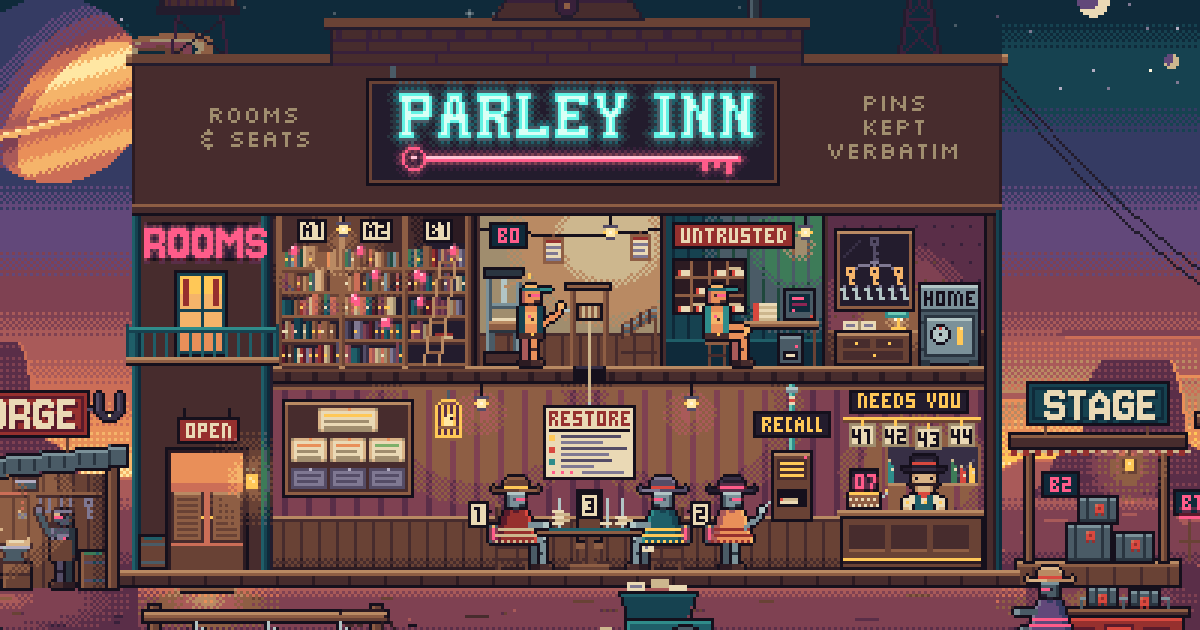
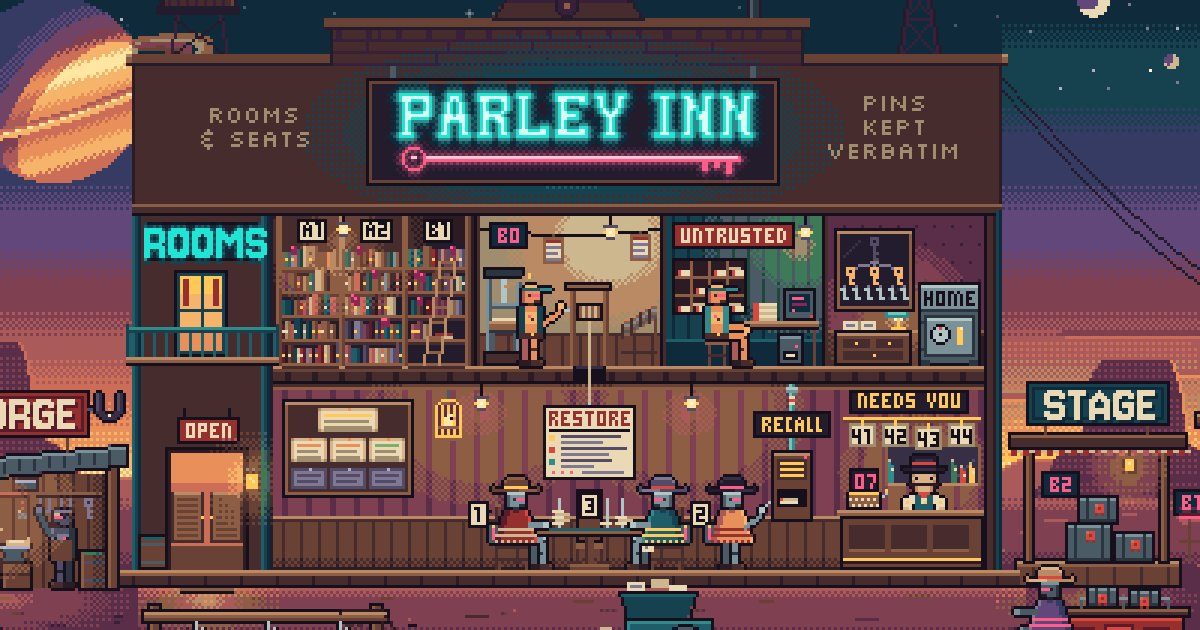
docs/design: the cyan sign glows as hard as the pink one did
The flip left the sign quieter than the small pinks around it: cyan
light could only fall on its own board, its glow climbed grey steps,
and pink sparkled from the shelves, the saloon floor and ROOMS.

- Cyan light now climbs the teal ramp, chosen step by step, so it can
  fall on the brown boards without warming them: the sign lights the
  wall around its board and blooms harder on it.
- Neon cyan is deeper, #1FE5D5, so the tubes read as colour, not white.
- ROOMS is the house's sign too, so it shines cyan.
- The small pinks calm down: bookmarks are deep rose ribbons with a lit
  tip, and the shelves and the saloon floor lose their pink halo.

Claude-Session: https://claude.ai/code/session_018PvLGbyFEuyGwhRRPAQAn3

diff --git a/docs/design/index.html b/docs/design/index.html
@@ -51,10 +51,10 @@
 <p class="tag">Pins kept verbatim.</p>
 </section>
 <section class="k-col" aria-labelledby="col-h"><h2 id="col-h">Colours</h2>
-<ul class="named"><li class="sw"><span class="sw-c c-t0"></span><span class="sw-n">Night</span><span>#0B1A29</span></li><li class="sw"><span class="sw-c c-p2"></span><span class="sw-n">Bone</span><span>#EAD9B5</span></li><li class="sw"><span class="sw-c c-d4"></span><span class="sw-n">Dusk coral</span><span>#CC6E57</span></li><li class="sw"><span class="sw-c c-d1"></span><span class="sw-n">Mesa plum</span><span>#5A2E48</span></li><li class="sw"><span class="sw-c c-t4"></span><span class="sw-n">Teal</span><span>#2F8C8A</span></li><li class="sw"><span class="sw-c c-am"></span><span class="sw-n">Amber</span><span>#FFC857</span></li><li class="sw"><span class="sw-c c-cy"></span><span class="sw-n">Neon cyan</span><span>#63F3E4</span></li><li class="sw"><span class="sw-c c-pk"></span><span class="sw-n">Neon pink</span><span>#FF5C8A</span></li></ul>
-<div class="ramps" role="img" aria-label="All 48 colours of the picture, in 7 ramps"><div class="ramp"><i class="c-ink" title="ink #15101C"></i><i class="c-n1" title="n1 #231C2D"></i><i class="c-n2" title="n2 #372F45"></i><i class="c-n3" title="n3 #544C66"></i><i class="c-n4" title="n4 #7F7892"></i><i class="c-n5" title="n5 #B3ADC2"></i></div><div class="ramp"><i class="c-t0" title="t0 #0B1A29"></i><i class="c-t1" title="t1 #0F2A3A"></i><i class="c-t2" title="t2 #164250"></i><i class="c-t3" title="t3 #1F5E68"></i><i class="c-t4" title="t4 #2F8C8A"></i><i class="c-t5" title="t5 #6CC9B4"></i><i class="c-cy" title="cy #63F3E4"></i><i class="c-cyw" title="cyw #D9FFF5"></i></div><div class="ramp"><i class="c-v1" title="v1 #353B63"></i><i class="c-v2" title="v2 #62487A"></i><i class="c-d0" title="d0 #38203A"></i><i class="c-d1" title="d1 #5A2E48"></i><i class="c-d2" title="d2 #7F4152"></i><i class="c-d3" title="d3 #A95A59"></i><i class="c-d4" title="d4 #CC6E57"></i><i class="c-d5" title="d5 #E98F59"></i><i class="c-d6" title="d6 #F5B46A"></i><i class="c-am" title="am #FFC857"></i><i class="c-d8" title="d8 #FFE7A3"></i><i class="c-wh" title="wh #FFF6DC"></i></div><div class="ramp"><i class="c-w0" title="w0 #2C1B22"></i><i class="c-w1" title="w1 #472C2D"></i><i class="c-w2" title="w2 #694235"></i><i class="c-w3" title="w3 #8E5E44"></i><i class="c-w4" title="w4 #B98A63"></i><i class="c-w5" title="w5 #D9B387"></i><i class="c-p0" title="p0 #A08D6E"></i><i class="c-p1" title="p1 #CDB78E"></i><i class="c-p2" title="p2 #EAD9B5"></i></div><div class="ramp"><i class="c-m0" title="m0 #2A3540"></i><i class="c-m1" title="m1 #4A5B66"></i><i class="c-m2" title="m2 #7B9199"></i><i class="c-m3" title="m3 #B2C5C5"></i></div><div class="ramp"><i class="c-r0" title="r0 #5A1B2B"></i><i class="c-r1" title="r1 #96302E"></i><i class="c-r2" title="r2 #D8483E"></i><i class="c-pk0" title="pk0 #8C2654"></i><i class="c-pk" title="pk #FF5C8A"></i><i class="c-pkw" title="pkw #FFC4D6"></i></div><div class="ramp"><i class="c-g0" title="g0 #1F483C"></i><i class="c-g1" title="g1 #3D7B58"></i><i class="c-g2" title="g2 #7DB06A"></i></div></div>
+<ul class="named"><li class="sw"><span class="sw-c c-t0"></span><span class="sw-n">Night</span><span>#0B1A29</span></li><li class="sw"><span class="sw-c c-p2"></span><span class="sw-n">Bone</span><span>#EAD9B5</span></li><li class="sw"><span class="sw-c c-d4"></span><span class="sw-n">Dusk coral</span><span>#CC6E57</span></li><li class="sw"><span class="sw-c c-d1"></span><span class="sw-n">Mesa plum</span><span>#5A2E48</span></li><li class="sw"><span class="sw-c c-t4"></span><span class="sw-n">Teal</span><span>#2F8C8A</span></li><li class="sw"><span class="sw-c c-am"></span><span class="sw-n">Amber</span><span>#FFC857</span></li><li class="sw"><span class="sw-c c-cy"></span><span class="sw-n">Neon cyan</span><span>#1FE5D5</span></li><li class="sw"><span class="sw-c c-pk"></span><span class="sw-n">Neon pink</span><span>#FF5C8A</span></li></ul>
+<div class="ramps" role="img" aria-label="All 48 colours of the picture, in 7 ramps"><div class="ramp"><i class="c-ink" title="ink #15101C"></i><i class="c-n1" title="n1 #231C2D"></i><i class="c-n2" title="n2 #372F45"></i><i class="c-n3" title="n3 #544C66"></i><i class="c-n4" title="n4 #7F7892"></i><i class="c-n5" title="n5 #B3ADC2"></i></div><div class="ramp"><i class="c-t0" title="t0 #0B1A29"></i><i class="c-t1" title="t1 #0F2A3A"></i><i class="c-t2" title="t2 #164250"></i><i class="c-t3" title="t3 #1F5E68"></i><i class="c-t4" title="t4 #2F8C8A"></i><i class="c-t5" title="t5 #6CC9B4"></i><i class="c-cy" title="cy #1FE5D5"></i><i class="c-cyw" title="cyw #D9FFF5"></i></div><div class="ramp"><i class="c-v1" title="v1 #353B63"></i><i class="c-v2" title="v2 #62487A"></i><i class="c-d0" title="d0 #38203A"></i><i class="c-d1" title="d1 #5A2E48"></i><i class="c-d2" title="d2 #7F4152"></i><i class="c-d3" title="d3 #A95A59"></i><i class="c-d4" title="d4 #CC6E57"></i><i class="c-d5" title="d5 #E98F59"></i><i class="c-d6" title="d6 #F5B46A"></i><i class="c-am" title="am #FFC857"></i><i class="c-d8" title="d8 #FFE7A3"></i><i class="c-wh" title="wh #FFF6DC"></i></div><div class="ramp"><i class="c-w0" title="w0 #2C1B22"></i><i class="c-w1" title="w1 #472C2D"></i><i class="c-w2" title="w2 #694235"></i><i class="c-w3" title="w3 #8E5E44"></i><i class="c-w4" title="w4 #B98A63"></i><i class="c-w5" title="w5 #D9B387"></i><i class="c-p0" title="p0 #A08D6E"></i><i class="c-p1" title="p1 #CDB78E"></i><i class="c-p2" title="p2 #EAD9B5"></i></div><div class="ramp"><i class="c-m0" title="m0 #2A3540"></i><i class="c-m1" title="m1 #4A5B66"></i><i class="c-m2" title="m2 #7B9199"></i><i class="c-m3" title="m3 #B2C5C5"></i></div><div class="ramp"><i class="c-r0" title="r0 #5A1B2B"></i><i class="c-r1" title="r1 #96302E"></i><i class="c-r2" title="r2 #D8483E"></i><i class="c-pk0" title="pk0 #8C2654"></i><i class="c-pk" title="pk #FF5C8A"></i><i class="c-pkw" title="pkw #FFC4D6"></i></div><div class="ramp"><i class="c-g0" title="g0 #1F483C"></i><i class="c-g1" title="g1 #3D7B58"></i><i class="c-g2" title="g2 #7DB06A"></i></div></div>
 <p class="cap2">All 48, in 7 ramps, and nothing else</p>
-<ul class="uses"><li><i class="c-cy"></i><p>Neon cyan is the house’s own light: the name on the sign and the beams of the pen.</p></li><li><i class="c-pk"></i><p>Neon pink is the working light: the key under the name, power cells, the ledgers’ bookmarks and boundary plates.</p></li><li><i class="c-am"></i><p>Amber is lamplight and the proprietor’s business: the Needs you sign and the rail its tickets hang on.</p></li><li><i class="c-r2"></i><p>Red is for marks that must not be missed: UNTRUSTED, QUARANTINE, the seals and the band on every envelope.</p></li></ul>
+<ul class="uses"><li><i class="c-cy"></i><p>Neon cyan is the house’s own light: the name on the sign, ROOMS over the balcony and the beams of the pen.</p></li><li><i class="c-pk"></i><p>Neon pink is the working light: the key under the name, power cells, the ledgers’ bookmarks and boundary plates.</p></li><li><i class="c-am"></i><p>Amber is lamplight and the proprietor’s business: the Needs you sign and the rail its tickets hang on.</p></li><li><i class="c-r2"></i><p>Red is for marks that must not be missed: UNTRUSTED, QUARANTINE, the seals and the band on every envelope.</p></li></ul>
 <p>The page is drawn in the same colours: night for the ground, bone for text, steel for quiet text, and the sign’s cyan, pink and amber for accents.</p>
 </section>
 <section class="k-cast" aria-labelledby="cast-h"><h2 id="cast-h">The cast</h2>

diff --git a/docs/design/art/scene.js b/docs/design/art/scene.js
@@ -3,7 +3,7 @@
 const { Fb, png, rng, IDX, RGB, PAL, ci, B2 } = require('./pix.js');
 const W = 480, H = 330, HZ = 206, GY = 236;
 
-const { halo, neonMask, boards, vboards, plate, lamp, FRAMES } = require('./kit.js');
+const { halo, neonMask, boards, vboards, plate, lamp, ramped, FRAMES } = require('./kit.js');
 const INTERIOR = require('./interior.js');
 const YARD = require('./yard.js');
 
@@ -91,6 +91,8 @@ const LET = {
   N: ['####...####', '####...####', '.####..###.', '.####..###.', '.#####.###.', '.#####.###.', '.###.#####.', '.###.#####.', '.###.#####.', '.###..####.', '.###..####.', '.###..####.', '.###..####.', '####...####', '####...####'],
 };
 const UNLIT = { cy: 't4', pk: 'pk0' }; // an unlit tube shows the colour of its glass
+// cyan light climbs the teal ramp: blended straight toward cyan, the brown boards would step to a warmer brown
+const CYAN = ramped({ ink: ['t0', 't1', 't2'], n1: ['t1', 't2', 't3', 't4'], d0: ['t2', 't3', 't4'], w1: ['t2', 't3', 't4'], w2: ['t3', 't4', 't5'] }, 'cy');
 function wordmark(g, x, y, str, edge, core, dead) { // returns width; dead = index of a letter drawn unlit
   let cx = x, n = 0;
   for (const ch of str) { if (ch === ' ') { cx += 7; continue; } const rows = LET[ch]; if (n === dead) neonMask(g, cx, y, rows, UNLIT[edge], UNLIT[edge]); else neonMask(g, cx, y, rows, edge, core); cx += rows[0].length + 2; n++; }
@@ -137,15 +139,16 @@ function innShell(g, t) {
   // painted lettering either side of the sign
   g.T(124, 76, 'ROOMS', 'p0', 's5', { align: 'c' }); g.T(124, 84, '& SEATS', 'p0', 's5', { align: 'c' });
   g.T(337, 72, 'PINS', 'p0', 's5', { align: 'c' }); g.T(337, 80, 'KEPT', 'p0', 's5', { align: 'c' }); g.T(337, 88, 'VERBATIM', 'p0', 's5', { align: 'c' });
+  // the sign lights the wall around its board
+  g.glow(231, 84, 110, 40, CYAN, 0.5, 8);
   // the sign board
   g.R(162, 66, 138, 36, 'n1').B(162, 66, 138, 36, 'ink').B(163, 67, 136, 34, 'w2');
   for (const x of [170, 290]) { g.R(x, 62, 2, 4, 'm1'); }
   const dead = (t === 15 || t === 17) ? 3 : -1;
   wordmark(g, 173, 71, 'PARLEY INN', 'cy', 'cyw', dead);
   keyGlyph(g, 174, 92, 112, 'pk', 'pkw');
-  halo(g, 163, 67, 136, 34, ['cy', 'cyw'], 'cy', [0.34, 0.2, 0.1, 0.05], 8);
+  halo(g, 163, 67, 136, 34, ['cy', 'cyw'], CYAN, [0.5, 0.3, 0.15, 0.06], 8);
   halo(g, 163, 86, 136, 15, ['pk', 'pkw'], 'pk', [0.3, 0.16, 0.07], 8);
-  // the sign lights its board only: cyan falling on the brown wall would step it to a warmer brown
   // header beam over the open floors, floor between them, end walls
   g.R(84, 108, 290, 4, 'w1').H(84, 108, 290, 'w3').H(84, 111, 290, 'ink');
   g.R(INN.cut0 - 3, INN.up0, 3, 118, 'n1'); for (let j = INN.up0; j < 230; j += 3) g.px(INN.cut0 - 2, j + 1, 'n3');
@@ -162,8 +165,8 @@ function facade(g, t) {
   g.R(x1 - 1, 112, 3, 118, 't2').V(x1 - 1, 112, 118, 't3').V(x1 + 1, 112, 118, 't1');
   // ROOMS in neon
   g.R(89, 114, 37, 13, 'n1').B(89, 114, 37, 13, 'ink');
-  g.T(108, 116, 'ROOMS', (t === 6) ? 'pk0' : 'pk', 'j10', { align: 'c' });
-  halo(g, 90, 115, 35, 11, ['pk'], 'pk', [0.3, 0.14], 8);
+  g.T(108, 116, 'ROOMS', (t === 6) ? UNLIT.cy : 'cy', 'j10', { align: 'c' });
+  halo(g, 90, 115, 35, 11, ['cy'], CYAN, [0.3, 0.14], 8);
   // balcony door, lit from inside
   g.R(98, 130, 18, 29, 't2').B(98, 130, 18, 29, 'ink'); g.R(100, 132, 14, 25, 'd6'); g.R(100, 132, 14, 6, 'am'); g.V(107, 132, 25, 't2'); g.H(100, 143, 14, 't2'); g.R(100, 150, 14, 7, 'd5');
   g.R(101, 133, 2, 9, 'r1'); g.R(111, 133, 2, 9, 'r1'); // curtains

diff --git a/docs/design/tokens.css b/docs/design/tokens.css
@@ -3,9 +3,9 @@
 @font-face{font-family:'Tiny5';font-style:normal;font-weight:400;font-display:swap;src:url(fonts/tiny5-400.woff2) format('woff2')}
 @font-face{font-family:'Chakra Petch';font-style:normal;font-weight:400;font-display:swap;src:url(fonts/chakra-petch-400.woff2) format('woff2')}
 :root{color-scheme:dark;
---bg:#0B1A29;--bg2:#0F2A3A;--ink:#15101C;--line:#164250;--line2:#1F5E68;--fg:#EAD9B5;--fg2:#B2C5C5;--mute:#7B9199;--pink:#FF5C8A;--cyan:#63F3E4;--amber:#FFC857;
+--bg:#0B1A29;--bg2:#0F2A3A;--ink:#15101C;--line:#164250;--line2:#1F5E68;--fg:#EAD9B5;--fg2:#B2C5C5;--mute:#7B9199;--pink:#FF5C8A;--cyan:#1FE5D5;--amber:#FFC857;
 --display:'Jersey 15','Chakra Petch','Trebuchet MS',sans-serif;--label:'Tiny5','Chakra Petch','Trebuchet MS',sans-serif;--text:'Chakra Petch','Trebuchet MS',Verdana,sans-serif;
---px-ink:#15101C;--px-n1:#231C2D;--px-n2:#372F45;--px-n3:#544C66;--px-n4:#7F7892;--px-n5:#B3ADC2;--px-t0:#0B1A29;--px-t1:#0F2A3A;--px-t2:#164250;--px-t3:#1F5E68;--px-t4:#2F8C8A;--px-t5:#6CC9B4;--px-cy:#63F3E4;--px-cyw:#D9FFF5;--px-v1:#353B63;--px-v2:#62487A;--px-d0:#38203A;--px-d1:#5A2E48;--px-d2:#7F4152;--px-d3:#A95A59;--px-d4:#CC6E57;--px-d5:#E98F59;--px-d6:#F5B46A;--px-am:#FFC857;--px-d8:#FFE7A3;--px-wh:#FFF6DC;--px-w0:#2C1B22;--px-w1:#472C2D;--px-w2:#694235;--px-w3:#8E5E44;--px-w4:#B98A63;--px-w5:#D9B387;--px-p0:#A08D6E;--px-p1:#CDB78E;--px-p2:#EAD9B5;--px-m0:#2A3540;--px-m1:#4A5B66;--px-m2:#7B9199;--px-m3:#B2C5C5;--px-r0:#5A1B2B;--px-r1:#96302E;--px-r2:#D8483E;--px-pk0:#8C2654;--px-pk:#FF5C8A;--px-pkw:#FFC4D6;--px-g0:#1F483C;--px-g1:#3D7B58;--px-g2:#7DB06A;}
+--px-ink:#15101C;--px-n1:#231C2D;--px-n2:#372F45;--px-n3:#544C66;--px-n4:#7F7892;--px-n5:#B3ADC2;--px-t0:#0B1A29;--px-t1:#0F2A3A;--px-t2:#164250;--px-t3:#1F5E68;--px-t4:#2F8C8A;--px-t5:#6CC9B4;--px-cy:#1FE5D5;--px-cyw:#D9FFF5;--px-v1:#353B63;--px-v2:#62487A;--px-d0:#38203A;--px-d1:#5A2E48;--px-d2:#7F4152;--px-d3:#A95A59;--px-d4:#CC6E57;--px-d5:#E98F59;--px-d6:#F5B46A;--px-am:#FFC857;--px-d8:#FFE7A3;--px-wh:#FFF6DC;--px-w0:#2C1B22;--px-w1:#472C2D;--px-w2:#694235;--px-w3:#8E5E44;--px-w4:#B98A63;--px-w5:#D9B387;--px-p0:#A08D6E;--px-p1:#CDB78E;--px-p2:#EAD9B5;--px-m0:#2A3540;--px-m1:#4A5B66;--px-m2:#7B9199;--px-m3:#B2C5C5;--px-r0:#5A1B2B;--px-r1:#96302E;--px-r2:#D8483E;--px-pk0:#8C2654;--px-pk:#FF5C8A;--px-pkw:#FFC4D6;--px-g0:#1F483C;--px-g1:#3D7B58;--px-g2:#7DB06A;}
 .c-ink{background-color:var(--px-ink)}
 .c-n1{background-color:var(--px-n1)}
 .c-n2{background-color:var(--px-n2)}

diff --git a/docs/design/art/pix.js b/docs/design/art/pix.js
@@ -5,7 +5,7 @@ const zlib = require('zlib'), fs = require('fs'), path = require('path');
 const PAL = {
   ink: '#15101C', n1: '#231C2D', n2: '#372F45', n3: '#544C66', n4: '#7F7892', n5: '#B3ADC2',
   t0: '#0B1A29', t1: '#0F2A3A', t2: '#164250', t3: '#1F5E68', t4: '#2F8C8A', t5: '#6CC9B4',
-  cy: '#63F3E4', cyw: '#D9FFF5',
+  cy: '#1FE5D5', cyw: '#D9FFF5',
   v1: '#353B63', v2: '#62487A',
   d0: '#38203A', d1: '#5A2E48', d2: '#7F4152', d3: '#A95A59', d4: '#CC6E57', d5: '#E98F59', d6: '#F5B46A',
   am: '#FFC857', d8: '#FFE7A3', wh: '#FFF6DC',
@@ -104,9 +104,10 @@ class Fb {
   }
   // blend light of an RGB colour into what is there: a(x,y) in 0..1, snapped to palette, dithered between steps
   // nd = no dither: the light falls in clean bands, which keeps small detail legible
+  // target may also be a function (colour, step, steps) => colour, for light whose steps are chosen by hand
   light(x, y, w, h, target, a, steps, nd) {
-    steps = steps || 6; if (typeof target === 'string') target = RGB[ci(target)];
-    return this.fn(x, y, w, h, (i, j, cur) => { if (!cur || NO_BLEND.has(cur)) return 0; let v = a(i, j); if (!(v > 0)) return 0; if (v > 1) v = 1; const A = v * steps, b = Math.floor(A), f = A - b; const lv = nd ? (Math.abs(f - 0.5) < 0.13 ? b + (B2[j & 1][i & 1] < 2 ? 1 : 0) : Math.round(A)) : b + (f * 4 > B2[j & 1][i & 1] + 0.5 ? 1 : 0); return lv > 0 ? mix(cur, target, lv, steps) : 0; });
+    steps = steps || 6; const pick = typeof target === 'function' ? target : null; if (typeof target === 'string') target = RGB[ci(target)];
+    return this.fn(x, y, w, h, (i, j, cur) => { if (!cur || NO_BLEND.has(cur)) return 0; let v = a(i, j); if (!(v > 0)) return 0; if (v > 1) v = 1; const A = v * steps, b = Math.floor(A), f = A - b; const lv = nd ? (Math.abs(f - 0.5) < 0.13 ? b + (B2[j & 1][i & 1] < 2 ? 1 : 0) : Math.round(A)) : b + (f * 4 > B2[j & 1][i & 1] + 0.5 ? 1 : 0); return lv > 0 ? (pick ? pick(cur, lv, steps) : mix(cur, target, lv, steps)) : 0; });
   }
   glow(cx, cy, rx, ry, target, strength, steps, nd) {
     return this.light(Math.floor(cx - rx), Math.floor(cy - ry), Math.ceil(rx * 2) + 1, Math.ceil(ry * 2) + 1, target, (i, j) => { const u = (i + 0.5 - cx) / rx, v = (j + 0.5 - cy) / ry, d = Math.sqrt(u * u + v * v); return d >= 1 ? 0 : strength * (1 - d) * (1 - d); }, steps, nd);

diff --git a/docs/design/art/interior.js b/docs/design/art/interior.js
@@ -78,7 +78,7 @@ function ledgerShelves(g, t) {
       const end = (b === 2 && s === 3) ? bx + 8 : (b === 2 && s === 4) ? bx : bx + bw; let x = bx;
       while (x < end) { const k = r(), w = k < 0.22 ? 1 : k < 0.86 ? 2 : 3; if (x + w > end) break; if (r() < 0.06) { x += 1; continue; } const hh = 5 + Math.floor(r() * 2.3), c = cols[Math.floor(r() * cols.length)];
         g.R(x, sy - hh, w, hh, c); if (w > 1) g.V(x + w - 1, sy - hh, hh, DK[c] || 'n2'); if (r() < 0.45) g.px(x, sy - 3, r() < 0.5 ? 'am' : 'p2');
-        if (r() < 0.15 && hh < 7) { const xx = x, yy = sy - hh - 2; late.push(() => { g.R(xx, yy + 1, 2, 3, 'pk'); g.px(xx, yy + 1, 'pkw'); }); }
+        if (r() < 0.15 && hh < 7) { const xx = x, yy = sy - hh - 2; late.push(() => { g.R(xx, yy + 1, 2, 3, 'pk0'); g.px(xx, yy + 1, 'pk'); }); }
         x += w; }
       if (b === 2 && s === 3) { g.R(bx + 9, sy - 2, 6, 2, 'p1'); g.H(bx + 9, sy - 2, 6, 'r1'); }
     }
@@ -88,7 +88,6 @@ function ledgerShelves(g, t) {
   g.L(181, 161, 187, 123, 'w4'); g.L(186, 161, 192, 123, 'w4'); for (let k = 0; k < 7; k++) { const yy = 157 - k * 5, xx = 181 + Math.round((161 - yy) * 6 / 38); g.H(xx + 1, yy, 4, 'w3'); }
   g.clip(x0, y0, x1 - x0, y1 - y0); g.glow(154, 120, 44, 38, 'am', 0.5, 6, true); g.unclip();
   late.forEach(f => f());
-  halo(g, x0, y0, x1 - x0, y1 - y0, ['pk'], 'pk', [0.3], 8);
   lamp(g, 154, y0, t, { drop: 2 });
 }
 function printShop(g, t) {
@@ -217,6 +216,5 @@ function saloon(g, t) {
   // the register, where every refusal rings up
   const rx = 322; g.R(rx + 1, 196, 10, 8, 'n1'); g.B(rx + 1, 196, 10, 8, 'ink'); g.T(rx + 3, 198, '07', 'pk', 'm5'); g.R(rx, 204, 12, 6, 'w3'); g.B(rx, 204, 12, 6, 'ink'); g.H(rx + 1, 204, 10, 'am'); for (let i = 0; i < 5; i++) { g.px(rx + 1 + i * 2, 206, 'p2'); g.px(rx + 2 + i * 2, 208, 'p2'); } g.px(rx + 12, 205, 'm3'); g.px(rx + 13, 204, 'm3'); g.px(rx + 13, 203, 'am');
   lamp(g, 200, y0, t, { drop: 4 }); lamp(g, 270, y0, t, { drop: 4 });
-  halo(g, x0, 200, x1 - x0, 30, ['pk'], 'pk', [0.26], 8);
 }
 module.exports = { figure, upstairs, saloon, PON, HAT, STEEL, BRASS, DARK, vkey, bottle, chair, PROP, PROPL };

diff --git a/docs/design/art/kit.js b/docs/design/art/kit.js
@@ -1,6 +1,6 @@
 'use strict';
 // Helpers shared by every part of the scene: light that spreads from bright pixels, neon lettering, boards, plates and lamps.
-const { Fb, rng, IDX, RGB, ci, B2 } = require('./pix.js');
+const { Fb, rng, IDX, RGB, ci, B2, mix } = require('./pix.js');
 // ---------- shared helpers ----------
 // Light spreading from pixels of the given source colours: alphas[d-1] is the strength at distance d.
 function halo(g, x, y, w, h, src, target, alphas, steps) {
@@ -26,6 +26,11 @@ function plate(g, cx, y, str, bg, fg, font, o) { // small lettered plate centred
   o = o || {}; font = font || 'm5'; const tw = g.tw(str, font), pad = o.pad === undefined ? 2 : o.pad, w = tw + pad * 2, x = Math.round(cx - w / 2), h = (o.h || 9);
   g.R(x, y, w, h, bg); g.B(x, y, w, h, o.edge || 'ink'); g.T(x + pad, y + Math.floor((h - 5) / 2), str, fg, font); return [x, y, w, h];
 }
+// Light whose steps are chosen by hand: a colour named in rows climbs its own row, step by step; any other blends toward the fallback.
+function ramped(rows, fallback) {
+  const T = new Map(Object.entries(rows).map(([c, r]) => [ci(c), r.map(ci)])), F = RGB[ci(fallback)];
+  return (cur, lv, steps) => { const r = T.get(cur); return r ? r[Math.min(lv, r.length) - 1] : mix(cur, F, lv, steps); };
+}
 function lamp(g, x, y, t, o) { // hanging oil lamp: cord from the ceiling at y, flame flickers
   o = o || {}; const drop = o.drop || 5; g.V(x, y, drop, 'ink');
   g.R(x - 2, y + drop, 5, 1, 'n3'); g.R(x - 1, y + drop + 1, 3, 3, 'd8'); g.px(x, y + drop + 2, 'wh'); if (t % 5 === 3) g.px(x, y + drop + 1, 'wh'); g.px(x - 2, y + drop + 2, 'am'); g.px(x + 2, y + drop + 2, 'am'); g.R(x - 1, y + drop + 4, 3, 1, 'n3');
@@ -33,4 +38,4 @@ function lamp(g, x, y, t, o) { // hanging oil lamp: cord from the ceiling at y, 
 }
 
 const FRAMES = 24;
-module.exports = { halo, neonMask, boards, vboards, plate, lamp, FRAMES };
+module.exports = { halo, neonMask, boards, vboards, plate, lamp, ramped, FRAMES };

diff --git a/docs/design/art/build.js b/docs/design/art/build.js
@@ -112,7 +112,7 @@ const NCOL = RAMPS.flat().length;
 const NAMED = [['Night', 't0'], ['Bone', 'p2'], ['Dusk coral', 'd4'], ['Mesa plum', 'd1'], ['Teal', 't4'], ['Amber', 'am'], ['Neon cyan', 'cy'], ['Neon pink', 'pk']];
 const PAGE = { bg: 't0', bg2: 't1', ink: 'ink', line: 't2', line2: 't3', fg: 'p2', fg2: 'm3', mute: 'm2', pink: 'pk', cyan: 'cy', amber: 'am' };
 const USES = [
-  ['cy', 'Neon cyan is the house’s own light: the name on the sign and the beams of the pen.'],
+  ['cy', 'Neon cyan is the house’s own light: the name on the sign, ROOMS over the balcony and the beams of the pen.'],
   ['pk', 'Neon pink is the working light: the key under the name, power cells, the ledgers’ bookmarks and boundary plates.'],
   ['am', 'Amber is lamplight and the proprietor’s business: the Needs you sign and the rail its tickets hang on.'],
   ['r2', 'Red is for marks that must not be missed: UNTRUSTED, QUARANTINE, the seals and the band on every envelope.'],

diff --git a/docs/design-system.md b/docs/design-system.md
@@ -60,13 +60,14 @@ them into a pixel editor. Eight carry names:
 | Mesa plum  | d1   | `#5A2E48` | the mesa and the shade   |
 | Teal       | t4   | `#2F8C8A` | the waistcoats and glass |
 | Amber      | am   | `#FFC857` | focus, code, the tagline |
-| Neon cyan  | cy   | `#63F3E4` | the selected place       |
+| Neon cyan  | cy   | `#1FE5D5` | the selected place       |
 | Neon pink  | pk   | `#FF5C8A` | links and numbers        |
 
 Four colours carry a meaning:
 
-- **Neon cyan** is the house's own light: the name on the sign and the
-  beams of the pen. The forge is next door, so its horseshoe is iron.
+- **Neon cyan** is the house's own light: the name on the sign, ROOMS
+  over the balcony and the beams of the pen. The forge is next door, so
+  its horseshoe is iron.
 - **Neon pink** is the working light: the key under the name, power
   cells, the ledgers' bookmarks and boundary plates.
 - **Amber** is lamplight and the proprietor's business: the Needs you
@@ -112,7 +113,8 @@ For pixel art:
    colour.
 3. Outline figures and things in ink, one pixel wide.
 4. Neon cyan and pink are lights: they glow onto what is near and take no
-   light themselves.
+   light themselves. Cyan's glow climbs the teal ramp, since a straight
+   blend would step the brown boards to a warmer brown.
 
 For the pages:
 
